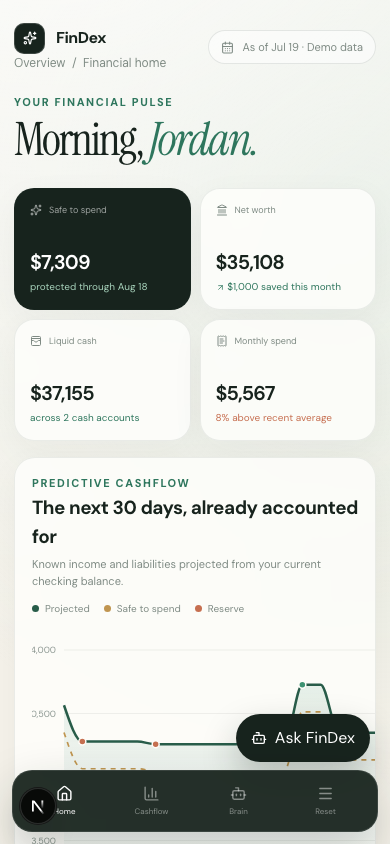
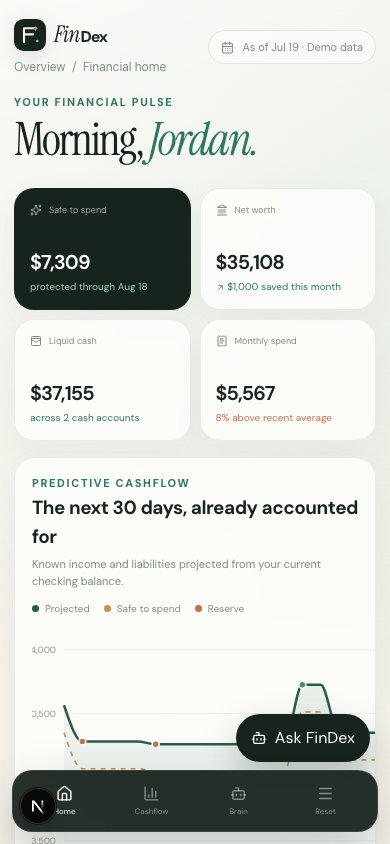
Refine FinDex brand and landing preview

Changed region(s): [[0.0308, 0.0, 0.4308, 0.0924]]

diff --git a/components/dashboard/landing.tsx b/components/dashboard/landing.tsx
@@ -1,8 +1,9 @@
 "use client";
 
-import { ArrowRight, Bot, ShieldCheck, Sparkles } from "lucide-react";
+import { ArrowRight, Bot, ShieldCheck } from "lucide-react";
 import type { ForecastResult } from "@/lib/finance/types";
 import { formatMoney } from "@/lib/finance/engine";
+import { BrandLogo } from "@/components/brand/brand-logo";
 
 export function Landing({ forecast, onEnter }: { forecast: ForecastResult; onEnter: () => void }) {
   const bars = forecast.points.filter((_, index) => index % 2 === 0).slice(0, 16);
@@ -12,13 +13,10 @@ export function Landing({ forecast, onEnter }: { forecast: ForecastResult; onEnt
     <main className="landing">
       <section className="landing-shell">
         <div className="landing-copy">
-          <div className="brand" aria-label="FinDex">
-            <span className="brand-mark"><Sparkles size={17} /></span>
-            <span>FinDex</span>
-          </div>
+          <BrandLogo />
 
           <div>
-            <div className="landing-eyebrow">Your financial operating system</div>
+            <div className="landing-kicker">Your financial operating system</div>
             <h1 className="landing-title serif">Money,<br /><em>anticipated.</em></h1>
             <p className="landing-subtitle">
               See what happens next, ask anything about your money, and build the exact financial tools you need—live.
@@ -39,20 +37,24 @@ export function Landing({ forecast, onEnter }: { forecast: ForecastResult; onEnt
               <div className="preview-dots"><span /><span /><span /></div>
               <div className="preview-pill">Next 30 days</div>
             </div>
-            <div className="landing-eyebrow">Safe to spend</div>
-            <div className="preview-number serif">{formatMoney(forecast.safeToSpendNowCents)}</div>
-            <div className="preview-caption">after upcoming bills and your $1,500 reserve</div>
+            <div className="preview-summary">
+              <div>
+                <div className="landing-eyebrow">Safe to spend</div>
+                <div className="preview-number serif">{formatMoney(forecast.safeToSpendNowCents)}</div>
+                <div className="preview-caption">after upcoming bills and your $1,500 reserve</div>
+              </div>
+              <div className="preview-insight">
+                <div className="preview-insight-row">
+                  <span className="preview-insight-icon"><Bot size={15} /></span>
+                  <div><strong>Cashflow looks healthy</strong><p>Your lowest point arrives on {forecast.lowestBalanceDate.slice(5).replace("-", "/")}.</p></div>
+                </div>
+              </div>
+            </div>
             <div className="preview-chart" aria-hidden="true">
               {bars.map((point, index) => {
                 const height = 48 + ((point.projectedBalanceCents - minimum) / Math.max(1, maximum - minimum)) * 120;
                 return <span key={point.date} className={`preview-bar ${index === bars.length - 3 ? "accent" : ""}`} style={{ height }} />;
               })}
-            </div>
-            <div className="preview-insight">
-              <div className="preview-insight-row">
-                <span className="preview-insight-icon"><Bot size={15} /></span>
-                <div><strong>Cashflow looks healthy</strong><p>Your lowest point arrives on {forecast.lowestBalanceDate.slice(5).replace("-", "/")}.</p></div>
-              </div>
             </div>
           </div>
         </div>
@@ -60,4 +62,3 @@ export function Landing({ forecast, onEnter }: { forecast: ForecastResult; onEnt
     </main>
   );
 }
-

diff --git a/app/globals.css b/app/globals.css
@@ -95,29 +95,98 @@ button {
   z-index: 2;
 }
 
-.brand {
+.brand-logo {
   display: inline-flex;
   align-items: center;
+  gap: 12px;
+  width: fit-content;
+  color: var(--ink);
+}
+
+.brand-symbol {
+  width: 42px;
+  height: 42px;
+  flex: 0 0 auto;
+  filter: drop-shadow(0 8px 16px rgba(23, 35, 29, 0.16));
+}
+
+.brand-monogram {
+  fill: none;
+  stroke: #f5f2ea;
+  stroke-width: 2.6;
+  stroke-linecap: round;
+  stroke-linejoin: round;
+}
+
+.brand-spark {
+  fill: #c49a56;
+}
+
+.brand-accent {
+  fill: #8fc5a8;
+}
+
+.brand-wordmark {
+  display: inline-flex;
+  align-items: baseline;
+  color: var(--ink);
+  line-height: 1;
+  letter-spacing: -0.055em;
+}
+
+.brand-wordmark-fin {
+  font-family: var(--font-instrument-serif), Georgia, serif;
+  font-size: 28px;
+  font-style: italic;
+}
+
+.brand-wordmark-dex {
+  font-size: 20px;
+  font-weight: 740;
+  letter-spacing: -0.065em;
+  margin-left: 1px;
+}
+
+.brand-logo-small {
+  gap: 8px;
+}
+
+.brand-logo-small .brand-symbol {
+  width: 32px;
+  height: 32px;
+  filter: drop-shadow(0 5px 10px rgba(23, 35, 29, 0.12));
+}
+
+.brand-logo-small .brand-wordmark-fin {
+  font-size: 23px;
+}
+
+.brand-logo-small .brand-wordmark-dex {
+  font-size: 16px;
+}
+
+.topbar-brand {
+  display: none;
+}
+
+.landing-kicker {
+  display: flex;
+  align-items: center;
   gap: 11px;
-  font-weight: 720;
-  letter-spacing: -0.03em;
+  color: var(--emerald);
+  font-family: var(--font-instrument-serif), Georgia, serif;
+  font-size: 18px;
+  font-style: italic;
+  letter-spacing: 0.01em;
+  line-height: 1.2;
 }
 
-.brand-mark {
-  width: 36px;
-  height: 36px;
-  display: grid;
-  place-items: center;
-  border-radius: 12px;
-  color: white;
-  background: var(--ink);
-  box-shadow: inset 0 0 0 1px rgba(255, 255, 255, 0.16);
-}
-
-.brand-mark-small {
-  width: 31px;
-  height: 31px;
-  border-radius: 10px;
+.landing-kicker::before {
+  content: "";
+  width: 30px;
+  height: 1px;
+  flex: 0 0 auto;
+  background: var(--gold);
 }
 
 .landing-eyebrow,
@@ -285,6 +354,13 @@ button {
   color: var(--muted);
 }
 
+.preview-summary {
+  display: flex;
+  align-items: flex-end;
+  justify-content: space-between;
+  gap: 24px;
+}
+
 .preview-chart {
   height: 190px;
   margin-top: 20px;
@@ -316,15 +392,13 @@ button {
 }
 
 .preview-insight {
-  position: absolute;
-  right: -22px;
-  bottom: 76px;
-  width: 210px;
-  border-radius: 17px;
-  background: #fff;
-  box-shadow: 0 20px 50px rgba(0,0,0,.18);
-  padding: 16px;
-  transform: rotate(3deg);
+  flex: 0 0 220px;
+  width: 220px;
+  border: 1px solid rgba(36, 54, 44, 0.09);
+  border-radius: 16px;
+  background: rgba(255, 255, 252, 0.92);
+  box-shadow: 0 14px 34px rgba(23, 35, 29, 0.11);
+  padding: 14px;
 }
 
 .preview-insight-row {
@@ -345,13 +419,15 @@ button {
 
 .preview-insight strong {
   display: block;
-  font-size: 11px;
+  font-size: 10px;
+  letter-spacing: -0.015em;
 }
 
 .preview-insight p {
-  margin: 2px 0 0;
+  margin: 3px 0 0;
   color: var(--muted);
   font-size: 9px;
+  line-height: 1.4;
 }
 
 .app-shell {
@@ -1202,9 +1278,14 @@ button {
   .preview-window {
     transform: rotate(-.5deg);
   }
+  .preview-summary {
+    align-items: stretch;
+    flex-direction: column;
+    gap: 15px;
+  }
   .preview-insight {
-    right: -5px;
-    bottom: 55px;
+    width: 100%;
+    flex-basis: auto;
   }
   .app-shell {
     display: block;
@@ -1219,8 +1300,8 @@ button {
     align-items: center;
     margin-bottom: 18px;
   }
-  .topbar .brand {
-    display: flex !important;
+  .topbar-brand {
+    display: inline-flex;
   }
   .welcome-row {
     align-items: flex-start;

diff --git a/components/dashboard/findex-app.tsx b/components/dashboard/findex-app.tsx
@@ -28,6 +28,7 @@ import { formatMoney, getCategoryName, getMerchantName } from "@/lib/finance/eng
 import { compactDate } from "@/lib/finance/dates";
 import type { WidgetArtifact } from "@/lib/widgets/contracts";
 import { BrainPanel } from "@/components/brain/brain-panel";
+import { BrandLogo } from "@/components/brand/brand-logo";
 import { GeneratedWidgetCard } from "@/components/widgets/generated-widget-card";
 import { ForecastChart } from "./forecast-chart";
 import { Landing } from "./landing";
@@ -95,7 +96,7 @@ export function FinDexApp({ dataset, snapshot }: { dataset: DemoDataset; snapsho
   return (
     <div className="app-shell">
       <aside className="sidebar" aria-label="Primary navigation">
-        <span className="brand-mark brand-mark-small"><Sparkles size={14} /></span>
+        <BrandLogo compact small />
         <nav className="sidebar-nav">
           <button className="nav-button active" aria-label="Overview"><LayoutDashboard size={18} /></button>
           <button className="nav-button" aria-label="Cashflow"><BarChart3 size={18} /></button>
@@ -109,7 +110,7 @@ export function FinDexApp({ dataset, snapshot }: { dataset: DemoDataset; snapsho
       <div className="app-content">
         <header className="topbar">
           <div>
-            <div className="brand" style={{ display: "none" }}><span className="brand-mark brand-mark-small"><Sparkles size={14} /></span><span>FinDex</span></div>
+            <BrandLogo small className="topbar-brand" />
             <div className="topbar-context">Overview&nbsp; / &nbsp;Financial home</div>
           </div>
           <div className="topbar-date"><CalendarDays size={13} />As of {compactDate(dataset.metadata.asOfDate)} · Demo data</div>

diff --git a/components/brand/brand-logo.tsx b/components/brand/brand-logo.tsx
@@ -1,0 +1,24 @@
+type BrandLogoProps = {
+  compact?: boolean;
+  small?: boolean;
+  className?: string;
+};
+
+export function BrandLogo({ compact = false, small = false, className = "" }: BrandLogoProps) {
+  return (
+    <span className={`brand-logo ${small ? "brand-logo-small" : ""} ${className}`.trim()} aria-label="FinDex">
+      <svg className="brand-symbol" viewBox="0 0 40 40" role="img" aria-hidden="true">
+        <rect width="40" height="40" rx="12" fill="currentColor" />
+        <path d="M12.5 29V11.5H27.5" className="brand-monogram" />
+        <path d="M12.5 19.2H24" className="brand-monogram" />
+        <path d="M26.8 8.2L27.7 11.1L30.6 12L27.7 12.9L26.8 15.8L25.9 12.9L23 12L25.9 11.1L26.8 8.2Z" className="brand-spark" />
+        <circle cx="29.2" cy="27.5" r="1.6" className="brand-accent" />
+      </svg>
+      {!compact && (
+        <span className="brand-wordmark" aria-hidden="true">
+          <span className="brand-wordmark-fin">Fin</span><span className="brand-wordmark-dex">Dex</span>
+        </span>
+      )}
+    </span>
+  );
+}

diff --git a/app/layout.tsx b/app/layout.tsx
@@ -24,8 +24,11 @@ export const metadata: Metadata = {
   description:
     "An AI-native financial operating system with predictive cashflow and tools built live by Codex.",
   icons: {
-    icon: "/favicon.svg",
-    shortcut: "/favicon.svg",
+    icon: [
+      { url: "/favicon.ico", sizes: "64x64" },
+      { url: "/favicon.svg", type: "image/svg+xml" },
+    ],
+    shortcut: "/favicon.ico",
   },
   openGraph: {
     title: "FinDex — Your financial life, anticipated",
